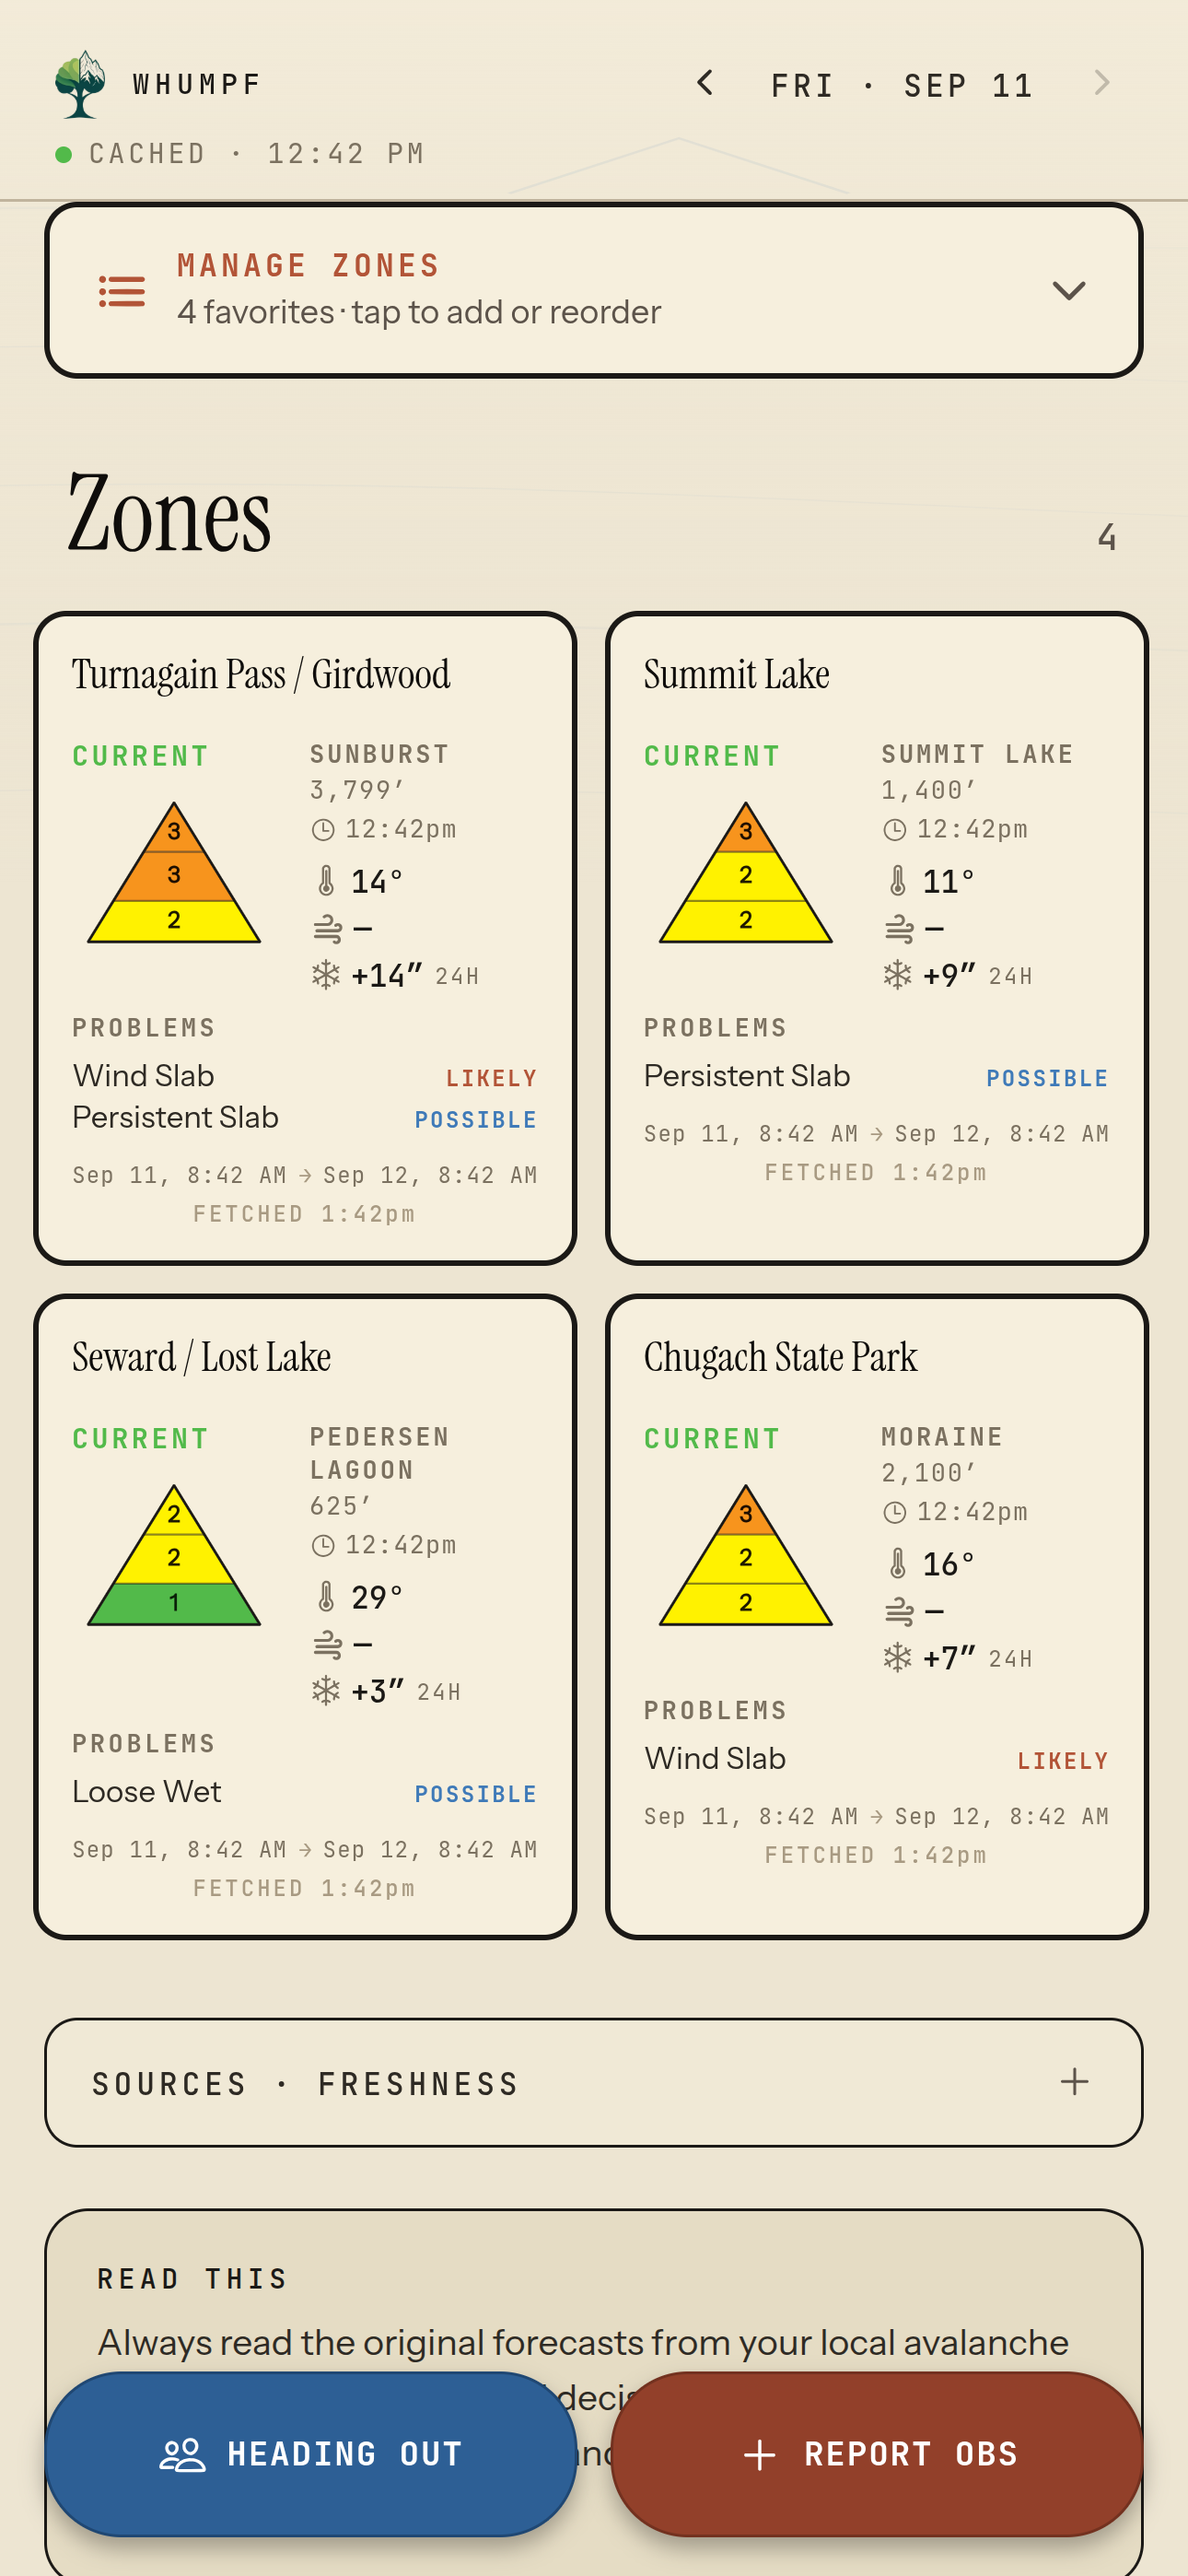
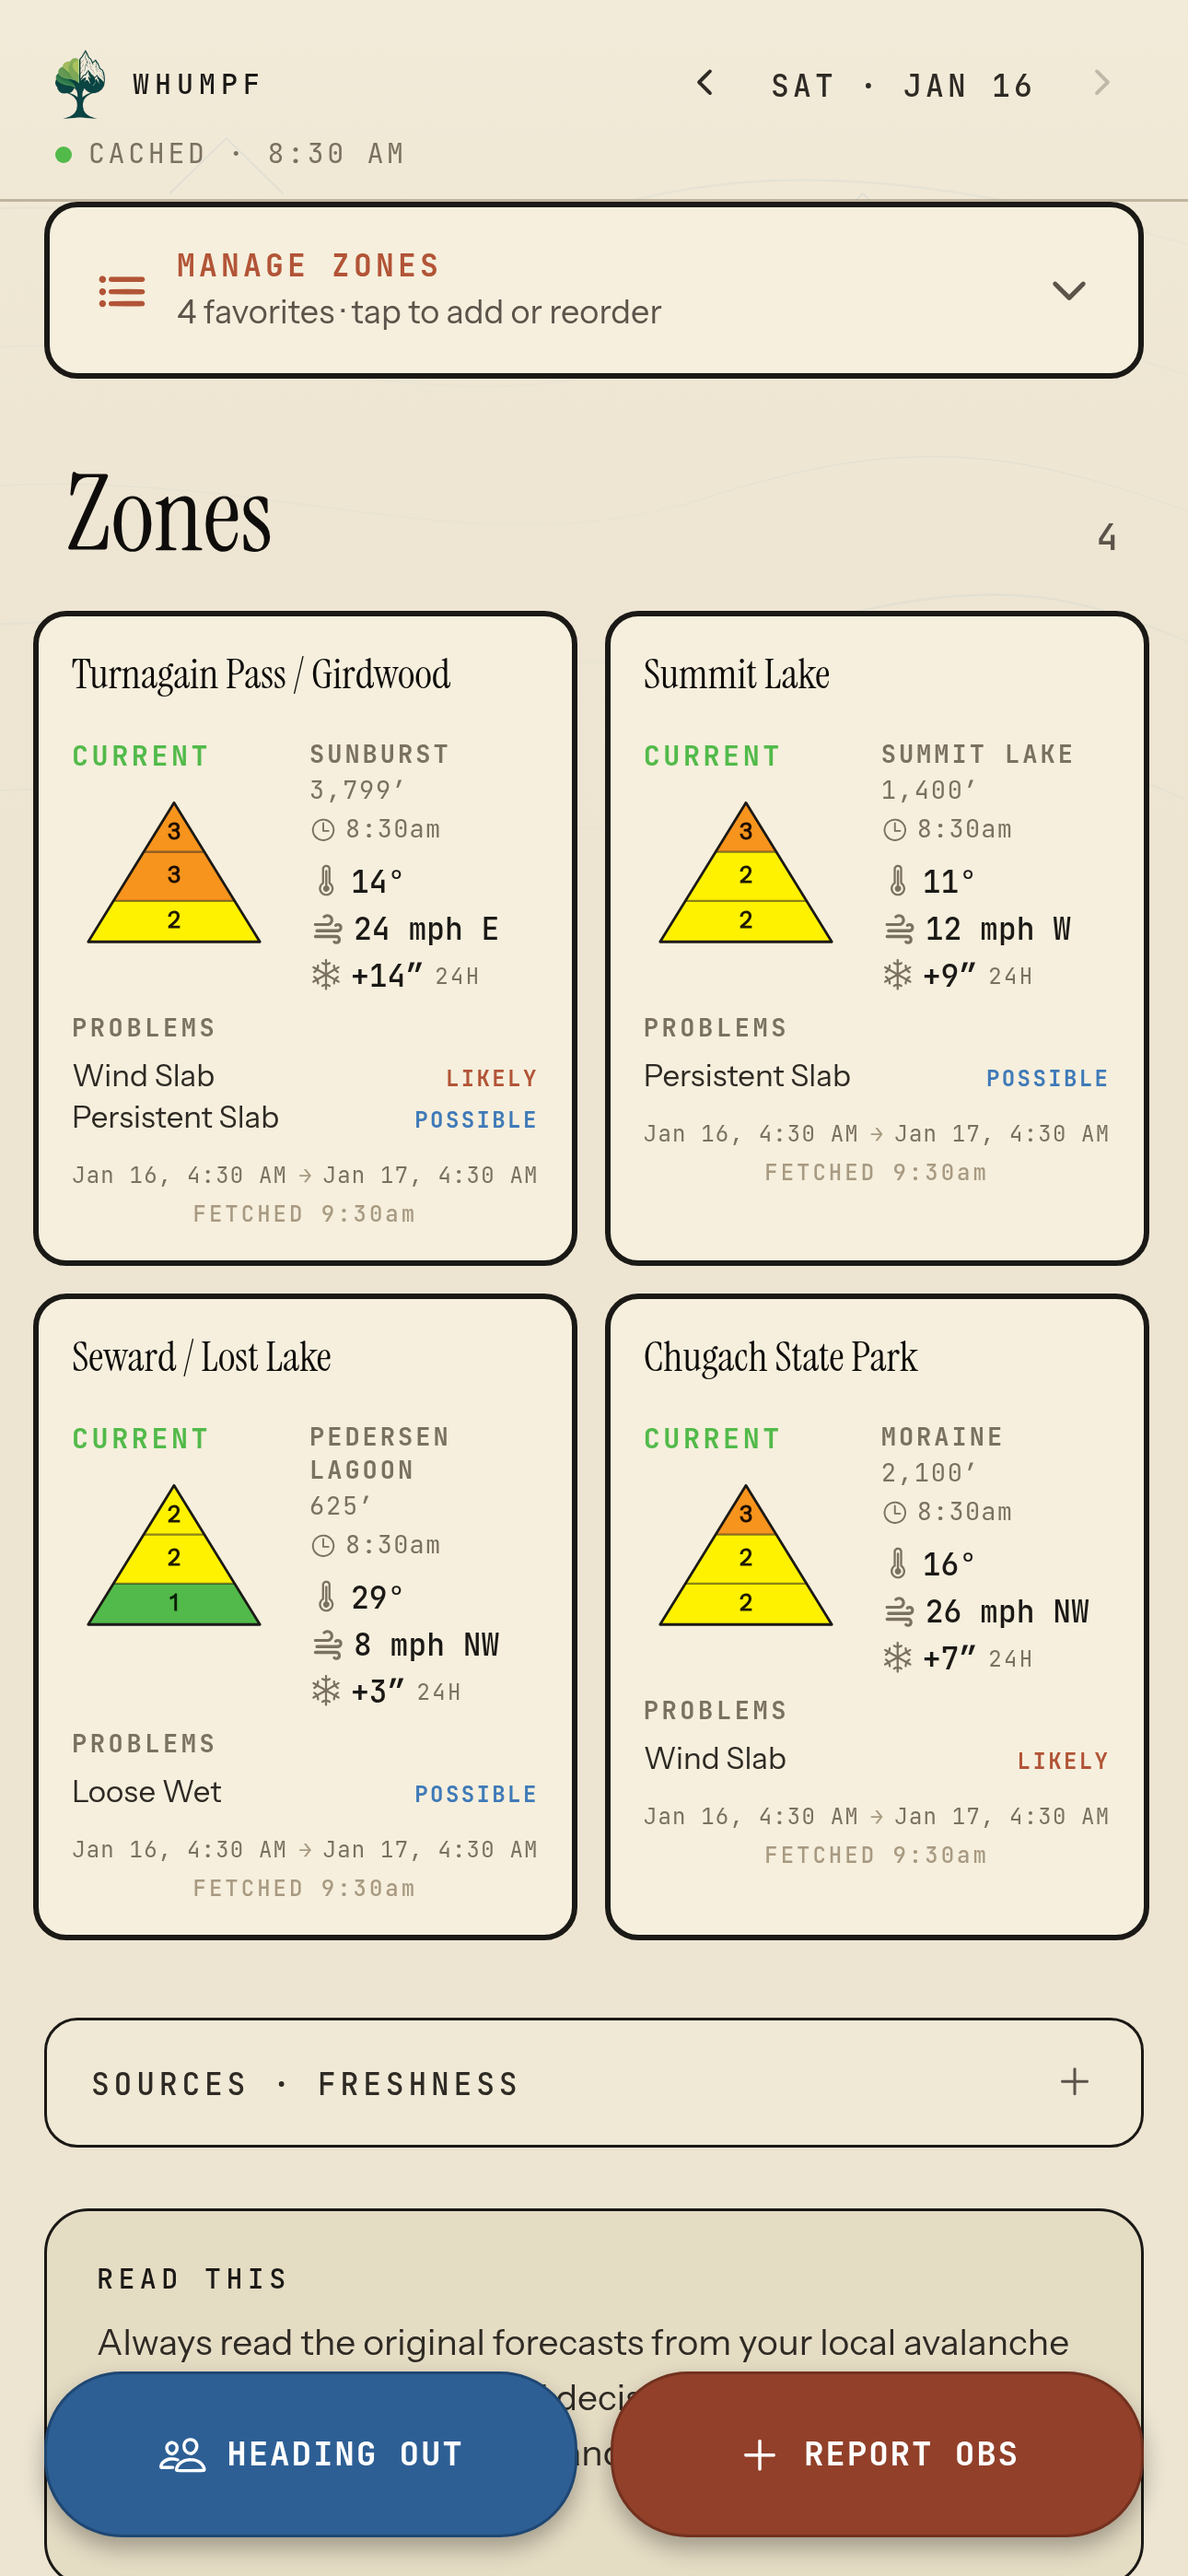
Redo App Store screenshots; fix demo station shape and tsc on deploy/
demoData station() guessed field names behind an as-unknown cast, which
rendered 'undefined MPH' and empty charts in the store shots. Now typed
against WeatherObservation with deterministic hourly series. Capture
moves to docs/store-screenshots/capture.mjs using a real 3x device scale
(the CSS transform trick laid RN Web tiles out at desktop width).
deploy/ (Deno proxy) is excluded from tsc/eslint like supabase/.

Claude-Session: https://claude.ai/code/session_018G1spM9dzPfsvL9bsSgSHg

diff --git a/lib/forecast/demoData.ts b/lib/forecast/demoData.ts
@@ -36,6 +36,28 @@ function displayDate(offsetHours: number): string {
   });
 }
 
+const DIR_DEGREES: Record<string, number> = {
+  N: 0, NE: 45, E: 90, SE: 135, S: 180, SW: 225, W: 270, NW: 315,
+};
+
+// Deterministic hourly series (oldest first, ending an hour ago) so the
+// charts have something to draw and screenshots are reproducible.
+function hourly(
+  hours: number,
+  at: (hoursAgo: number) => number,
+): { timestamp: string; value: number }[] {
+  const points = [];
+  for (let h = hours; h >= 1; h--) {
+    points.push({
+      timestamp: iso(-h),
+      value: Math.round(at(h) * 10) / 10,
+    });
+  }
+  return points;
+}
+
+// Typed against the real shape, no cast: an earlier version guessed at the
+// field names and rendered "undefined MPH" in the store screenshots.
 function station(
   name: string,
   elevation: number,
@@ -45,6 +67,16 @@ function station(
   snow24: number,
   depth: number,
 ): WeatherObservation {
+  const dirDeg = DIR_DEGREES[windDir] ?? 0;
+  const temp = (h: number) => tempF + 5 * Math.sin((h / 24) * 2 * Math.PI) - h * 0.05;
+  const speed = (h: number) => Math.max(0, windMph + 6 * Math.sin(h / 3) - h * 0.1);
+  const gust = (h: number) => speed(h) + 10 + 3 * Math.cos(h / 2);
+  const dir = (h: number) => (dirDeg + 20 * Math.sin(h / 5) + 360) % 360;
+  // Snowfall front-loaded into the last ~18 hours, in inches of SWE per hour.
+  const precip = (h: number) => (h <= 18 ? snow24 / 12 / 18 : 0.005);
+  const max24 = Math.round(Math.max(...hourly(24, gust).map((p) => p.value)));
+  const max72 = Math.round(Math.max(...hourly(72, gust).map((p) => p.value)));
+
   return {
     stationTriplet: name.toUpperCase().replace(/\s+/g, "_"),
     stationName: name,
@@ -53,27 +85,48 @@ function station(
     snow: {
       depth,
       depth24hrChange: snow24,
-      depth72hrChange: snow24 * 2.2,
-      depth7dayChange: snow24 * 3.4,
-      precip24hr: snow24 / 12,
-      precip72hr: (snow24 * 2.2) / 12,
-      precip48hr: (snow24 * 1.6) / 12,
-      precip7day: (snow24 * 3.4) / 12,
-      swe: depth / 9,
+      depth72hrChange: Math.round(snow24 * 2.2),
+      depth7dayChange: Math.round(snow24 * 3.4),
+      precip24hr: Math.round((snow24 / 12) * 10) / 10,
+      precip72hr: Math.round(((snow24 * 2.2) / 12) * 10) / 10,
+      precip48hr: Math.round(((snow24 * 1.6) / 12) * 10) / 10,
+      precip7day: Math.round(((snow24 * 3.4) / 12) * 10) / 10,
+      swe: Math.round((depth / 4) * 10) / 10,
       snowPercentage24hr: 100,
       snowPercentage72hr: 100,
+      hourlyPrecip24hr: hourly(24, precip),
+      hourlyPrecip72hr: hourly(72, precip),
     },
     temperature: {
       current: tempF,
       high24hr: tempF + 5,
       low24hr: tempF - 8,
+      high72hr: tempF + 9,
+      low72hr: tempF - 11,
+      avg24hr: tempF - 2,
+      avg72hr: tempF - 1,
+      trend: "cooling",
+      hourly24hr: hourly(24, temp),
+      hourly72hr: hourly(72, temp),
     },
     wind: {
-      speed: windMph,
+      speedCurrent: windMph,
+      speedAvg24hr: Math.round(windMph * 0.8),
+      speedMax24hr: max24,
+      speedAvg72hr: Math.round(windMph * 0.7),
+      speedMax72hr: max72,
       direction: windDir,
-      gust: windMph + 14,
+      direction24hr: windDir,
+      direction72hr: windDir,
+      hourlySpeed24hr: hourly(24, speed),
+      hourlySpeed72hr: hourly(72, speed),
+      hourlyGust24hr: hourly(24, gust),
+      hourlyGust72hr: hourly(72, gust),
+      hourlyDirection24hr: hourly(24, dir),
+      hourlyDirection72hr: hourly(72, dir),
     },
-  } as unknown as WeatherObservation;
+    dataQuality: "good",
+  };
 }
 
 interface DemoZoneSpec {

diff --git a/eslint.config.js b/eslint.config.js
@@ -7,10 +7,12 @@ module.exports = defineConfig([
   {
     // supabase/functions is Deno (remote https:// imports the RN resolver
     // can't follow → false import/no-unresolved); .expo and graphify-out
-    // are generated. tsconfig already excludes supabase — match it here.
+    // are generated. deploy/ is the Deno Deploy proxy, same story.
+    // tsconfig already excludes supabase + deploy — match it here.
     ignores: [
       'dist/*',
       'supabase/functions/**',
+      'deploy/**',
       '.expo/**',
       'graphify-out/**',
       'test/mocks/**',

diff --git a/docs/APP_REVIEW_NOTES.md b/docs/APP_REVIEW_NOTES.md
@@ -1,5 +1,33 @@
 # App Store review notes
 
+## As pasted into App Store Connect (1.0, 2026-09-13)
+
+This is the exact text in *App Review Information → Notes*. Edit here first, then
+re-paste. The older per-topic drafts below are kept for their internal reasoning; the
+location one had a stale "onboarding screen" verify step (the prompt actually appears
+the first time a zone is favorited) and the old app name.
+
+```
+BACKGROUND LOCATION ("ALWAYS")
+Whumpf is an avalanche-forecast app for backcountry travelers, who routinely drive out of cell service into remote mountain terrain. So the latest avalanche and weather data for a user's saved zones is already on the phone before they lose signal, the app refreshes that data in the background as they travel.
+
+The app requests "Always" location for one purpose: to receive iOS significant-location-change events, used only as a trigger to run that background refresh. The app does not read, store, log, transmit, or share the device's location; the coordinates delivered with these events are never accessed by our code.
+
+It is strictly opt-in. The request is shown in context with a plain-language explanation the first time the user adds a favorite zone, never at launch, and the app is fully functional without it (foreground use, pull-to-refresh, Background App Refresh and silent push all work with location denied).
+
+How to verify: on the home screen, add a zone to your favorites; the explainer appears, and tapping enable shows the iOS prompt. Significant-location-change only fires on real coarse-location changes; in the simulator use Features > Location > Freeway Drive to trigger the refresh.
+
+OBSERVATION SUBMISSION
+Tapping "Send observation" does not file the report directly. Whumpf is waiting on production API access from the National Avalanche Center, so the app says so plainly and offers to send the completed observation to the avalanche center by email instead, with a PDF copy and the user's photos attached. Nothing is submitted to a live forecasting system until that access is granted. You can complete the form and tap the button to see the explanation; choosing "Save a PDF" exercises the whole flow without sending anything.
+
+USER-GENERATED CONTENT
+The Observations tab for each zone shows public field observations (text and photos) retrieved read-only from the National Avalanche Center's public API (api.avalanche.org). They are submitted by the public to, and published by, the regional avalanche centers. Users cannot post into this feed from within Whumpf, and there are no user accounts, profiles, comments or messaging. Each observation links to its original page on the avalanche center's site.
+
+No sign-in is required; all features are available without an account.
+```
+
+---
+
 Paste the relevant block into **App Store Connect → your version → App Review
 Information → Notes** before submitting. Reviewers reject "Always" location
 faster when they have to infer why it's requested — leading with a clear

diff --git a/JOURNAL.md b/JOURNAL.md
@@ -16,6 +16,33 @@ thread with the same context the last one had.
 
 ---
 
+## 2026-09-13 (evening) — The screenshots were lying twice
+
+The store screenshots were "verified 1290×2796" last session, and they were: exactly the
+right size, and wrong in content. One showed `undefined MPH`, one had a problems card the
+size of a billboard, two were empty forms. Same lesson as the text/plain blocker, a day
+later: I checked the property that was easy to measure (pixel dimensions, bytes) instead
+of looking at the thing. This time I only caught it because I happened to glance at the
+ASC thumbnail strip after uploading.
+
+Both defects came from shortcuts that hid their own failure. `as unknown as
+WeatherObservation` in the demo builder let me guess the field names (`wind.speed`
+instead of `wind.speedCurrent`) with the compiler's blessing; the render code checks
+`!== null`, so `undefined` sailed through as a string. Removing the cast was the fix —
+the type now catches it. And the CSS `transform: scale(3)` capture trick faked a phone
+for text but not for layout: RN Web sizes the zone tiles from the real window width, so
+the tiles were laid out for a 1290px desktop and then scaled. A genuine
+`deviceScaleFactor: 3` context is the honest version of the same idea.
+
+Also worth remembering: the age-rating questionnaire changed shape (Capabilities step
+with User-Generated Content). Kai chose Yes because the Observations tab really does show
+public obs; the rating still came out 4+. If a reviewer invokes Guideline 1.2 and wants a
+report/block control, the answer is probably a "report this observation" link to the
+center's page rather than an in-app moderation system — the centers own that content.
+
+And the "gates green" in the handoff was already stale — `deploy/main.ts` had broken
+`tsc` since the proxy commit. Gates are only as current as the last time they ran.
+
 ## 2026-09-13 — Handoff: what's live, what's left, and the two lessons
 
 Where we are: the app is renamed **Whumpf**, the whole backend is live and verified, and

diff --git a/LOG.md b/LOG.md
@@ -40,6 +40,25 @@ Format per entry:
   hourly series. Demo-only; real data is typed `number | null`. (Same cause: home shows
   wind "—".) store-02 has a huge empty Problems box; store-04/05 are mostly blank. Also
   uploaded in parallel so ASC order is scrambled.
+- **Screenshots redone and re-uploaded in order** (6.9" slot; 6.5" inherits):
+  home, zone, stations, **problems** (new, replaces the blank obs form), **trip form
+  filled in**. `demoData.ts` `station()` now typed against the real shape with
+  deterministic hourly series (no cast). Capture moved to `docs/store-screenshots/
+  capture.mjs`: headless Chrome with a real `deviceScaleFactor: 3` at 430×932 — the old
+  CSS-transform trick is what made the zone tiles desktop-width (RN Web read the 1290px
+  window). Clock pinned to Jan 16 via `clock.install` + `resume()` (a `setFixedTime`
+  frozen clock stalled the home fade-in → empty home).
+- **Gate regression fixed:** `tsc` was failing on `deploy/main.ts` (Deno globals) since
+  137e507 — the handoff's "gates green" predates it. Excluded `deploy/` in `tsconfig.json`
+  and `eslint.config.js`, same as `supabase/`. Gates now: tsc 0, eslint 0, Vitest 113.
+- **TestFlight build #31** (`fd1d2b3`, EAS build 60d2c7c5, submission fb19caad) — picks up
+  bf55cad (26 center contact addresses) that #30 lacked. Kai chose to submit #31. #30
+  attached for now; swap once #31 finishes processing.
+- **App Review Information filled (not yet saved):** Sign-in required unchecked; contact
+  Kai Myers / kai.myers.a@gmail.com; notes = the exact text now at the top of
+  `docs/APP_REVIEW_NOTES.md` (location note corrected — the prompt appears on first
+  favorite, not an onboarding screen — plus obs-staging and UGC notes). ASC won't save
+  without a **phone number — waiting on Kai**. Release = automatic after approval (Kai).
 
 ## 2026-09-13 — SESSION HANDOFF / current state (read this first next session)
 **App is renamed `Whumpf`, backend is fully live, App Store submission is ~70% set up.**
